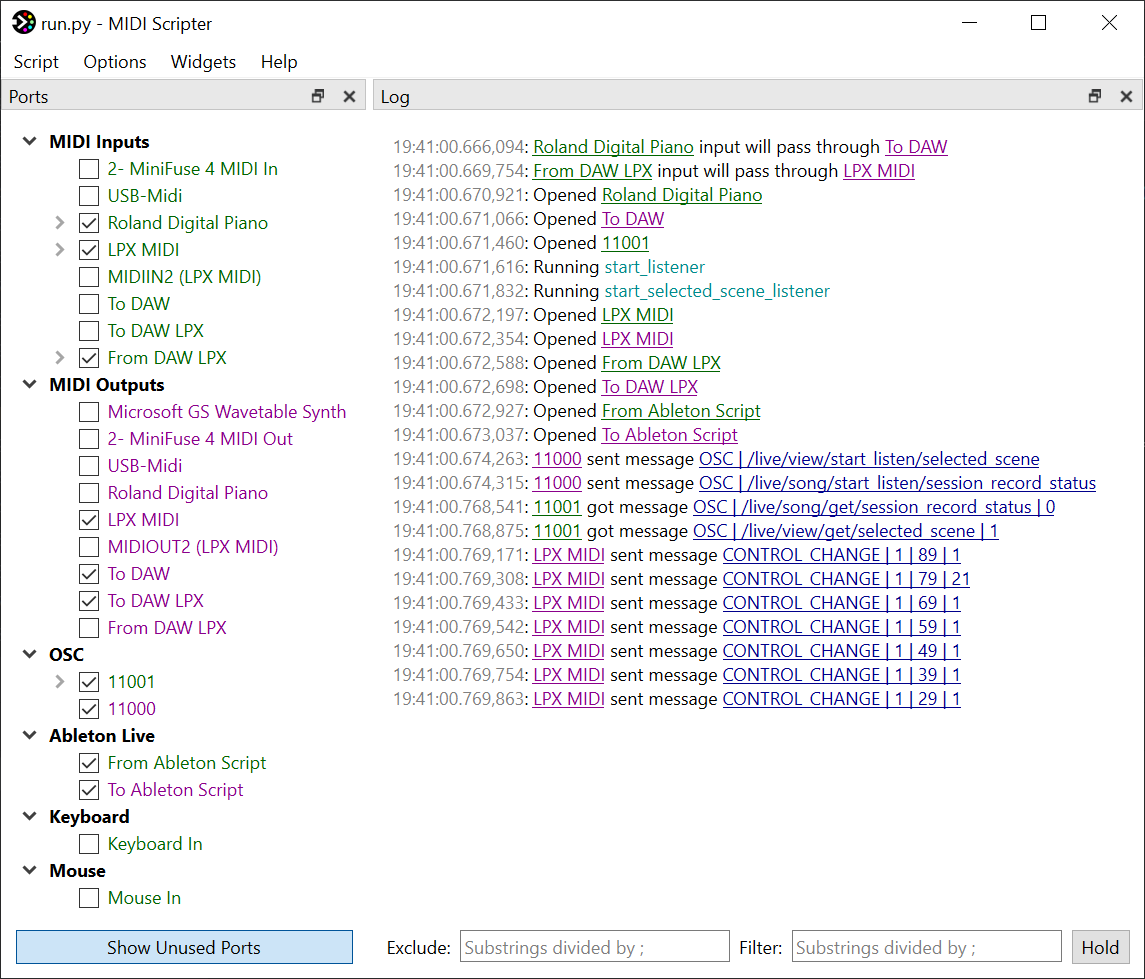
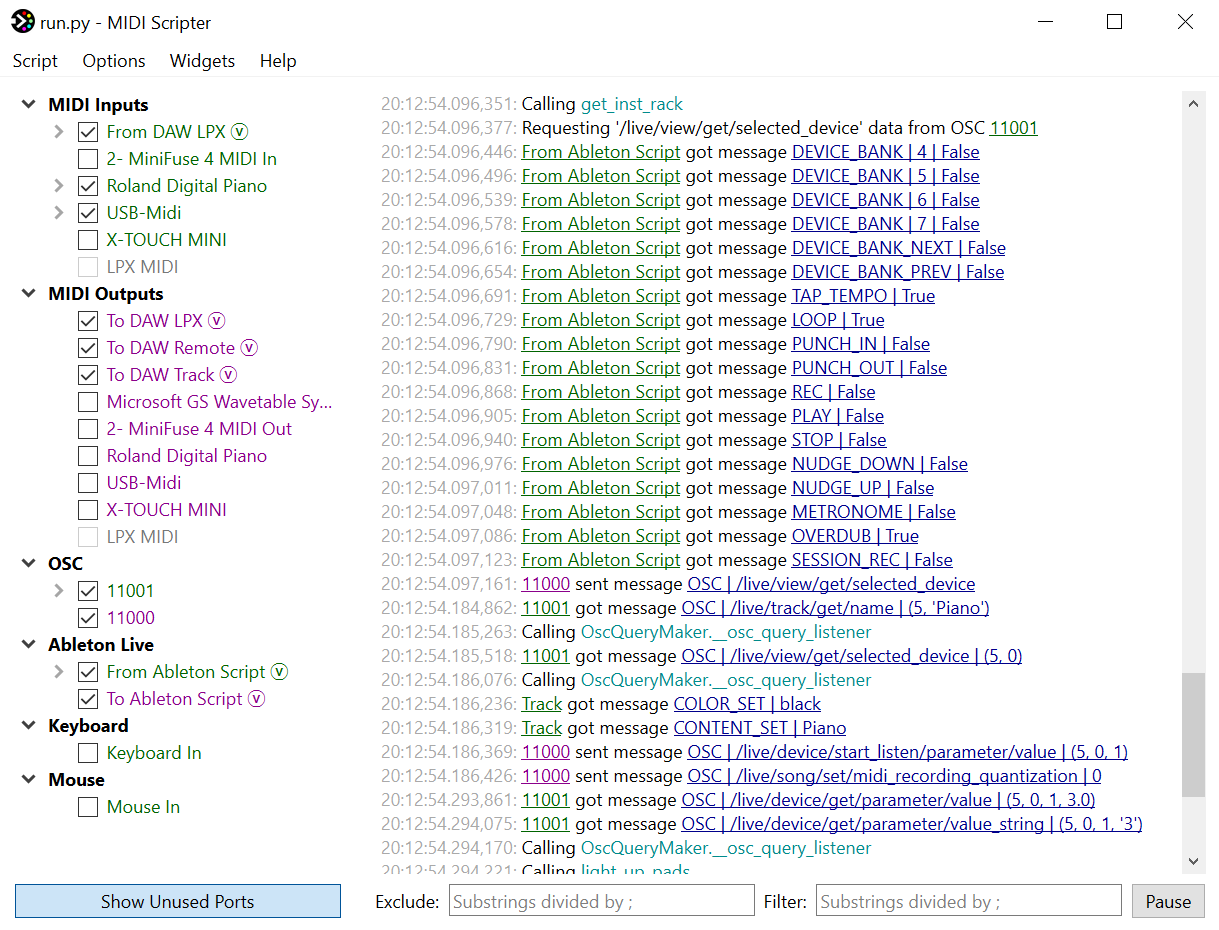
Updated examples and screenshots

diff --git a/examples/ableton_select_armed_track_with_remote_script/ableton_select_armed_track_with_remote_script.py b/examples/ableton_select_armed_track_with_remote_script/ableton_select_armed_track_with_remote_script.py
@@ -2,8 +2,8 @@ from midiscripter import *
 from ableton_remote import *
 
 
-ableton_in = AbletonIn('Ableton Script', virtual=True)
-ableton_out = AbletonOut('Ableton Script', virtual=True)
+ableton_in = AbletonIn('From Ableton Script', virtual=True)
+ableton_out = AbletonOut('To Ableton Script', virtual=True)
 
 
 @ableton_in.subscribe(AbletonEvent.TRACK_ARM, value=True)
